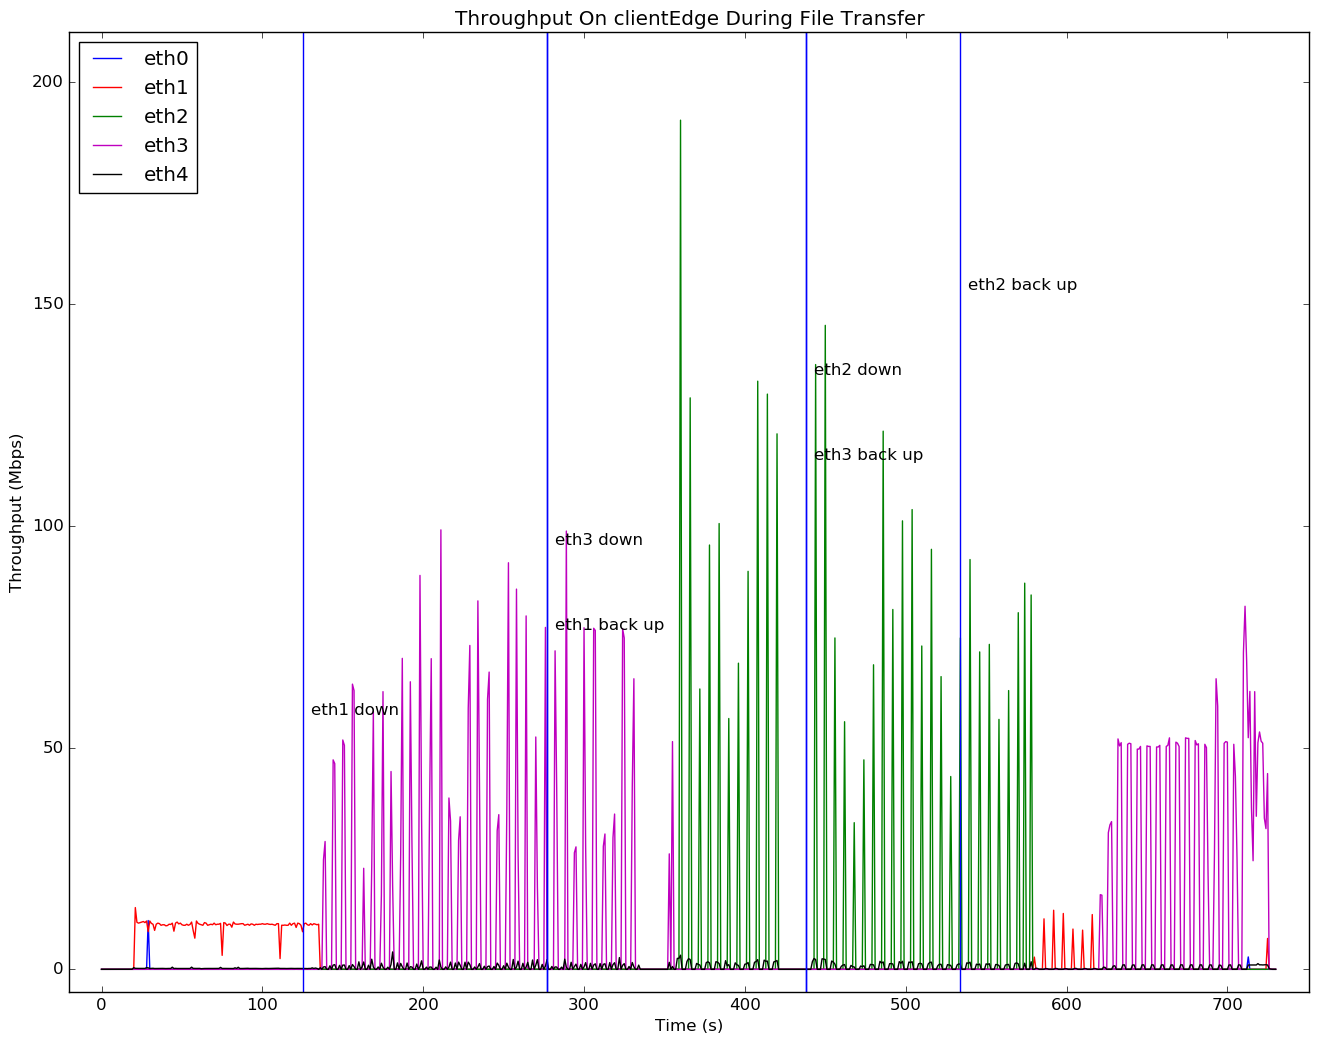
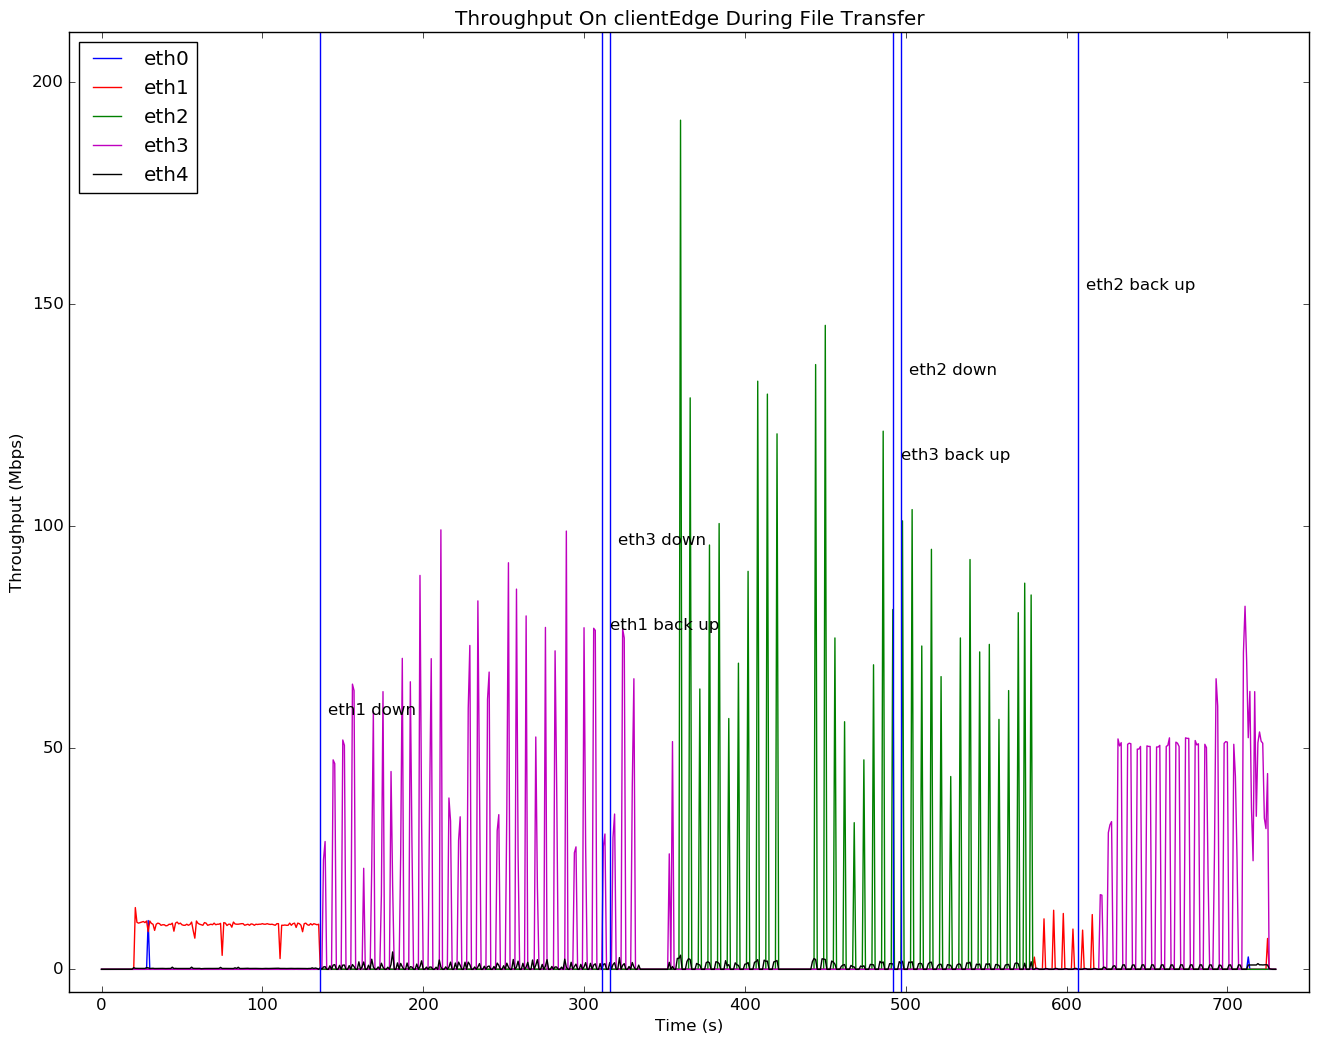
Print time only in seconds since epoch for easy conversion. bwm-ng buffers output, causing interface events to appear earlier than reality. Use the time printed by the event instead of a nearby time printed by bwm-ng to avoid offset errors.

diff --git a/plotThroughput.py b/plotThroughput.py
@@ -13,7 +13,8 @@ import matplotlib.patches as mpatches
 
 # Collect the data from the given file
 
-files = sorted(glob.glob('*.csv'))
+#files = sorted(glob.glob('*.csv'))
+files = ['clientEdge-throughput-09-19-16_03:13.csv']
 
 for file in files:
   date = "-".join(file.split("-")[2:]).split(".")[0]
@@ -24,7 +25,7 @@ for file in files:
     ifaces = []
     for line in data:
       if "timestamp" in line or "down" in line or "back" in line:
-        interfaceActivity[0].append(int(dataPoints[len(dataPoints) - 1][0]))
+        interfaceActivity[0].append(int(line[1:].split('at')[1]) - int(dataPoints[0][0]))
         interfaceActivity[1].append(line[1:].split('at')[0])
       else:
         dataPoints.append(line.split(';'))
@@ -108,9 +109,6 @@ for file in files:
         avgTraffic[m].append(sum(sumTraffic[m]) / len(sumTraffic[m]))
         avgPacketsOut[m].append(sum(sumPacketsOut[m]) / len(sumPacketsOut[m]))
         avgPacketsIn[m].append(sum(sumPacketsIn[m]) / len(sumPacketsIn[m]))
-    for intCount in range(len(interfaceActivity[0])):
-      if (int(interfaceActivity[0][intCount]) == int(timestamp[0][i])):
-        interfaceActivity[0][intCount] = i / 10
     skip = j
 
   color = ['b', 'r', 'g', 'm', 'k', 'c', 'y']
@@ -151,4 +149,5 @@ for file in files:
   saveLocation2 = "png/" + file.split("-")[0] + '-' + date + '.png'
   plt.savefig(saveLocation, bbox_inches='tight')
   plt.savefig(saveLocation2, bbox_inches='tight')
+  plt.show()
   plt.close()
